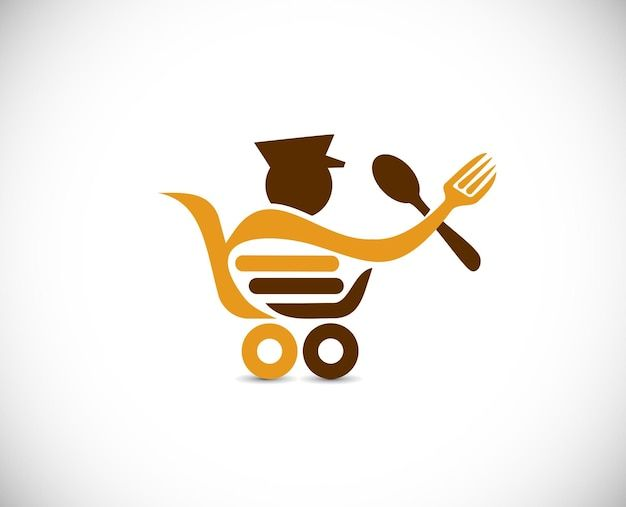
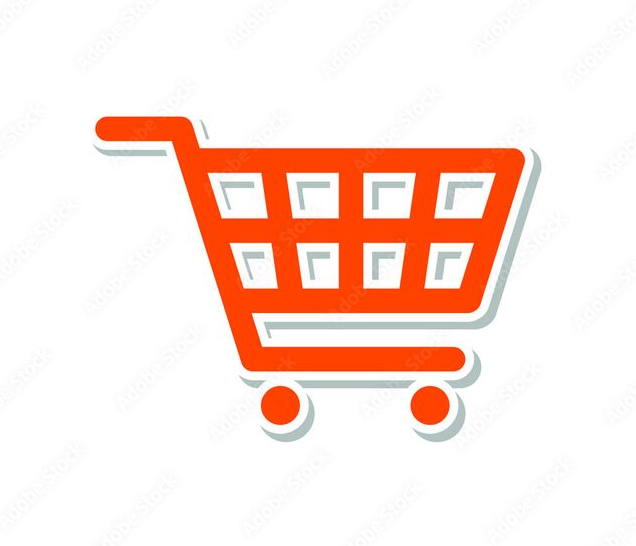
working on Menubar

diff --git a/foodies/src/components/Menubar/Menubar.jsx b/foodies/src/components/Menubar/Menubar.jsx
@@ -5,38 +5,33 @@ import {assets} from '../../assets/assets';
 const Menubar = () => {
   return (
     <nav className="navbar navbar-expand-lg bg-body-tertiary">
-  <div className="container-fluid">
-    <img src={assets.logo10} alt="" className='logo' height={48} width={48} />
+  <div className="container">
+    <img src={assets.logo10} alt="" className='mx-4' height={58} width={58} />
     <button className="navbar-toggler" type="button" data-bs-toggle="collapse" data-bs-target="#navbarSupportedContent" aria-controls="navbarSupportedContent" aria-expanded="false" aria-label="Toggle navigation">
       <span className="navbar-toggler-icon"></span>
     </button>
     <div className="collapse navbar-collapse" id="navbarSupportedContent">
       <ul className="navbar-nav me-auto mb-2 mb-lg-0">
         <li className="nav-item">
-          <a className="nav-link active" aria-current="page" href="#">Home</a>
+          <a className="nav-link "  href="#">Home</a>
         </li>
         <li className="nav-item">
-          <a className="nav-link" href="#">Link</a>
-        </li>
-        <li className="nav-item dropdown">
-          <a className="nav-link dropdown-toggle" href="#" role="button" data-bs-toggle="dropdown" aria-expanded="false">
-            Dropdown
-          </a>
-          <ul className="dropdown-menu">
-            <li><a className="dropdown-item" href="#">Action</a></li>
-            <li><a className="dropdown-item" href="#">Another action</a></li>
-            <li><hr className="dropdown-divider" /></li>
-            <li><a className="dropdown-item" href="#">Something else here</a></li>
-          </ul>
+          <a className="nav-link" href="#">Explore</a>
         </li>
         <li className="nav-item">
-          <a className="nav-link disabled" aria-disabled="true">Disabled</a>
+          <a className="nav-link" href="#">Contact us</a>
         </li>
+       
       </ul>
-      <form className="d-flex" role="search">
-        <input className="form-control me-2" type="search" placeholder="Search" aria-label="Search"/>
-        <button className="btn btn-outline-success" type="submit">Search</button>
-      </form>
+      <div className='d-flex align-item-center gap-4'>
+        <div className='postion-relative'>
+          <img src={assets.cart10} alt="" height={48} width={48} className='position-relative'/>
+          <span className='position-flex top-0 start-100 translate-middle badge rounded-pill bg-warning'>5</span>
+        </div>
+        <button className='btn btn-outline-primary'>Login</button>
+        <button className='btn btn-outline-primary'>Register</button>
+
+      </div>
     </div>
   </div>
 </nav>

diff --git a/foodies/src/components/Menubar/Menubar.css b/foodies/src/components/Menubar/Menubar.css
@@ -1,10 +1,0 @@
-.logo {
-    margin-right: 25px;
-}
-
-.menubar-right{
-    display: flex;
-    align-items: center;
-    gap: 25px;
-    
-}

diff --git a/foodies/src/assets/assets.js b/foodies/src/assets/assets.js
@@ -1,5 +1,5 @@
-import logo from './logo10.png';
-import cart from './cart10.png';
+import logo10 from './logo10.png';
+import cart10 from './cart10.png';
 
 export const assets = {
     logo10,